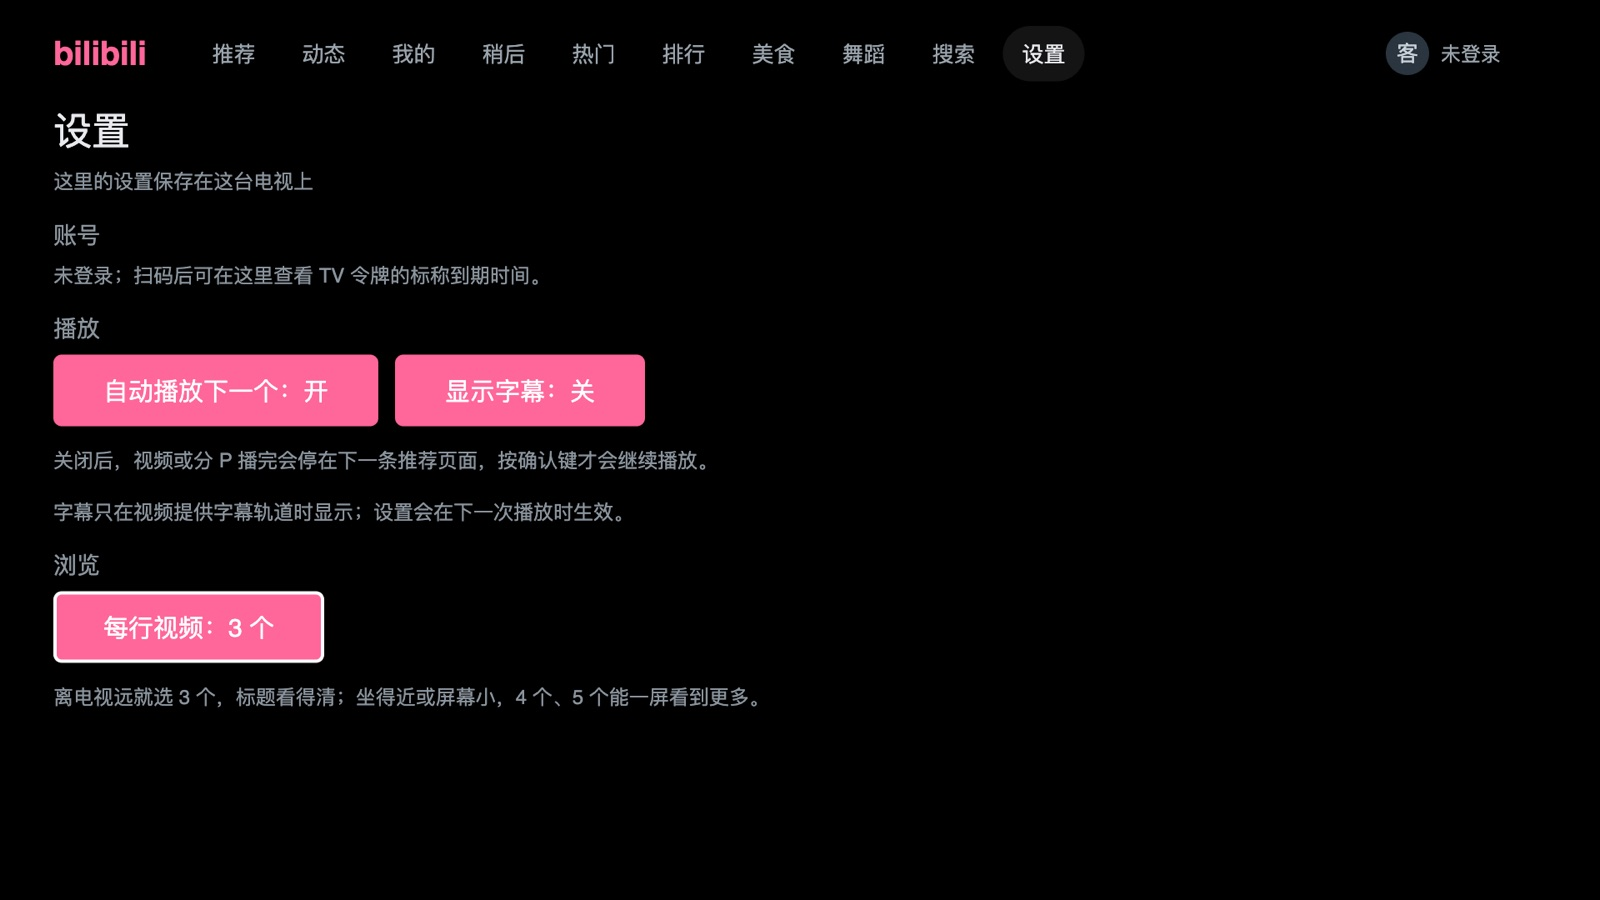
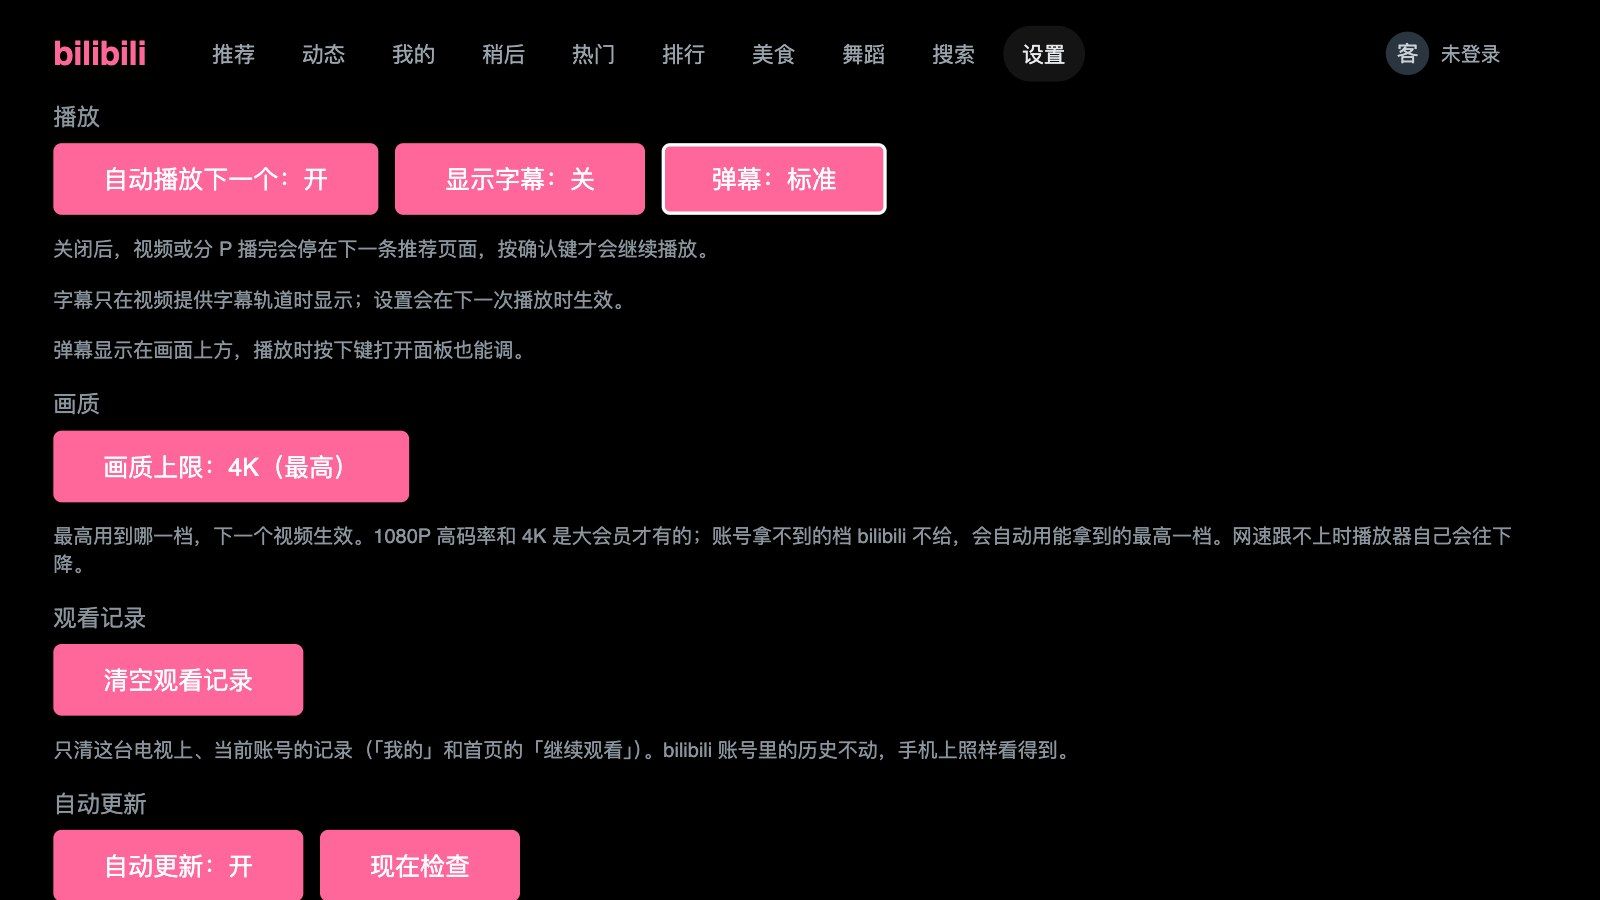
README：播放截图换成弹幕画面，设置页截图从「播放」到「自动更新」；tools/readme-shots.mjs 以后重拍用
Claude-Session: https://claude.ai/code/session_01SSm6jujiXp2p8KRvnBjhcj

Changed region(s): [[0.0312, 0.0933, 0.9375, 0.84], [0.0312, 0.8711, 0.3438, 1.0], [0.4688, 0.0311, 0.5, 0.0622]]

diff --git a/README.en.md b/README.en.md
@@ -19,12 +19,12 @@ what you half-watched on the phone is under the cursor when the TV comes on.
 
 |  |  |
 |---|---|
-| ![Home](docs/screenshots/01-home.jpg) | ![Playback](docs/screenshots/03-player-scrub.jpg) |
-| Three big cards a row, readable from the sofa; signed in, the top row is 「continue watching」 and the cursor starts on it | Scrubbing with thumbnail previews; up to 1080p H.265 when signed in, 4K with a 大会员 (premium) account |
+| ![Home](docs/screenshots/01-home.jpg) | ![Playback](docs/screenshots/03-player-danmaku.jpg) |
+| Three big cards a row, readable from the sofa; signed in, the top row is 「continue watching」 and the cursor starts on it | Danmaku drift right to left without overlapping, and pause and change speed with the video; scrubbing with thumbnail previews; up to 1080p H.265 when signed in, 4K with a 大会员 (premium) account |
 | ![Panel](docs/screenshots/04-panel.jpg) | ![Comments](docs/screenshots/05-comments.jpg) |
 | Press down while playing for the description, speed, parts and related videos — **the video keeps running**; like / coin / favourite and comments are here too | Comments and replies beside the video, which keeps playing |
 | ![Settings](docs/screenshots/06-settings.jpg) | ![Search](docs/screenshots/02-search.jpg) |
-| Settings: autoplay, subtitles, and cards per row to suit the TV and the sofa | Search, with the TV's own Chinese IME one button away |
+| Settings: autoplay, subtitles, danmaku, quality cap, clearing watch history, self-update, and cards per row to suit the TV and the sofa | Search, with the TV's own Chinese IME one button away |
 
 ## Will it run on my TV
 

diff --git a/README.md b/README.md
@@ -18,12 +18,12 @@
 
 |  |  |
 |---|---|
-| ![首页](docs/screenshots/01-home.jpg) | ![播放](docs/screenshots/03-player-scrub.jpg) |
-| 3 列大卡片，从沙发上也看得清；登录后最上面一行是「继续观看」，开机光标就在上面 | 拖动时有缩略图预览；登录后最高 1080P H.265，大会员最高 4K |
+| ![首页](docs/screenshots/01-home.jpg) | ![播放](docs/screenshots/03-player-danmaku.jpg) |
+| 3 列大卡片，从沙发上也看得清；登录后最上面一行是「继续观看」，开机光标就在上面 | 弹幕从右往左飘，不叠在一起，跟着暂停和倍速走；拖动时有缩略图预览；登录后最高 1080P H.265，大会员最高 4K |
 | ![面板](docs/screenshots/04-panel.jpg) | ![评论](docs/screenshots/05-comments.jpg) |
 | 播放中按下键拉出简介、倍速、分 P 与相关推荐，**视频不停**；点赞、投币、收藏和看评论也在这里 | 边看边读评论和楼中楼，视频缩到一边接着播 |
 | ![设置](docs/screenshots/06-settings.jpg) | ![搜索](docs/screenshots/02-search.jpg) |
-| 设置：自动播放、字幕，每行几个视频按电视大小和离沙发多远来选 | 搜索，可切到电视自带的中文输入法 |
+| 设置：自动播放、字幕、弹幕、画质上限、清空观看记录、自动更新，每行几个视频按电视大小和离沙发多远来选 | 搜索，可切到电视自带的中文输入法 |
 
 ## 我的电视能装吗
 

diff --git a/CLAUDE.md b/CLAUDE.md
@@ -605,6 +605,7 @@ tools/
   update-verify.mjs   自更新：签名、篡改、旧版本、shell 太新、标坏，以及 boot.js 在每种本地状态下选对代码；卡发布
   update-e2e.mjs      自更新在桌面浏览器里走一遍真的启动（临时钥匙，不碰 bilibili），不在 check.sh 里
   update-release.mjs  打更新包、签名，写 update/manifest.json 和 update/bundle-<版本>.json
+  readme-shots.mjs    README 的弹幕画面、面板、拖动、设置页截图（桌面浏览器、未登录、会连哔哩哔哩，跑一次就好），先出到 dist/ 挑
   update-key.mjs      生成签名钥匙（只在换钥匙时用；--show 查对不对得上）
   danmaku-verify.mjs  弹幕：解析、去重、轨道不重叠；--browser 在桌面浏览器里量帧耗时；卡发布（node 那部分）
                       （电视上的帧耗时用 deploy.sh --dmperf 量，见「弹幕」）
